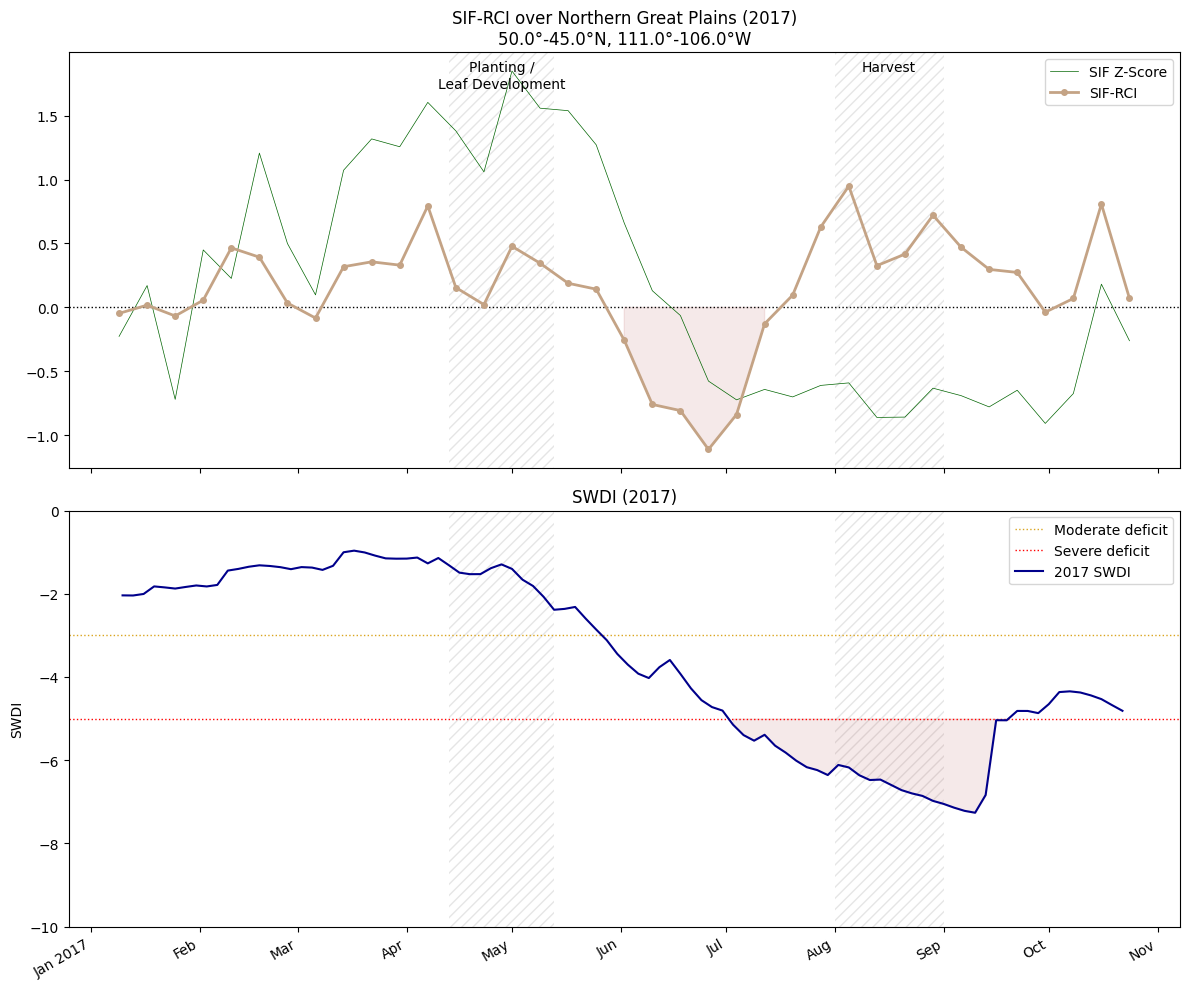
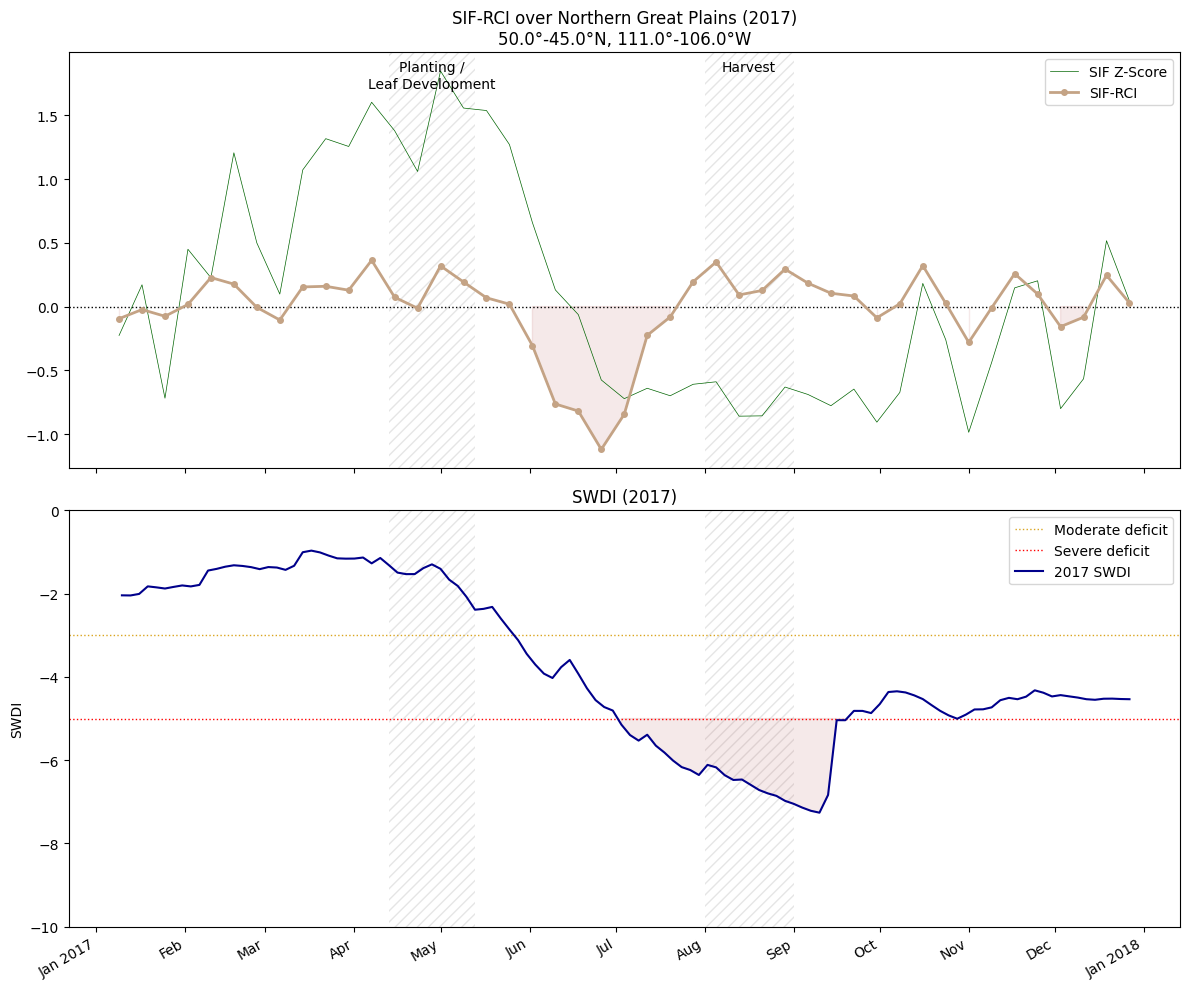
Fix a small mistake in the RCI calculation

diff --git a/notebooks/analysis.py b/notebooks/analysis.py
@@ -97,7 +97,7 @@ def compute_rci(
     sign_change = (z_prev_grid * z_jy_grid) < 0   # Z(j-1,y)·Z(j,y) < 0  (case 3)
 
     neg_term = np.sqrt(np.where(neg_anom, np.abs(z_jy_grid) - 0.75, 0.0))
-    pos_term = np.sqrt(np.where(pos_anom, z_jy_grid + 0.75, 0.0))
+    pos_term = np.sqrt(np.where(pos_anom, z_jy_grid - 0.75, 0.0))
 
     rci_jy_grid = rci_prev_grid.copy()
     rci_jy_grid = np.where(neg_anom, rci_prev_grid - neg_term, rci_jy_grid)
